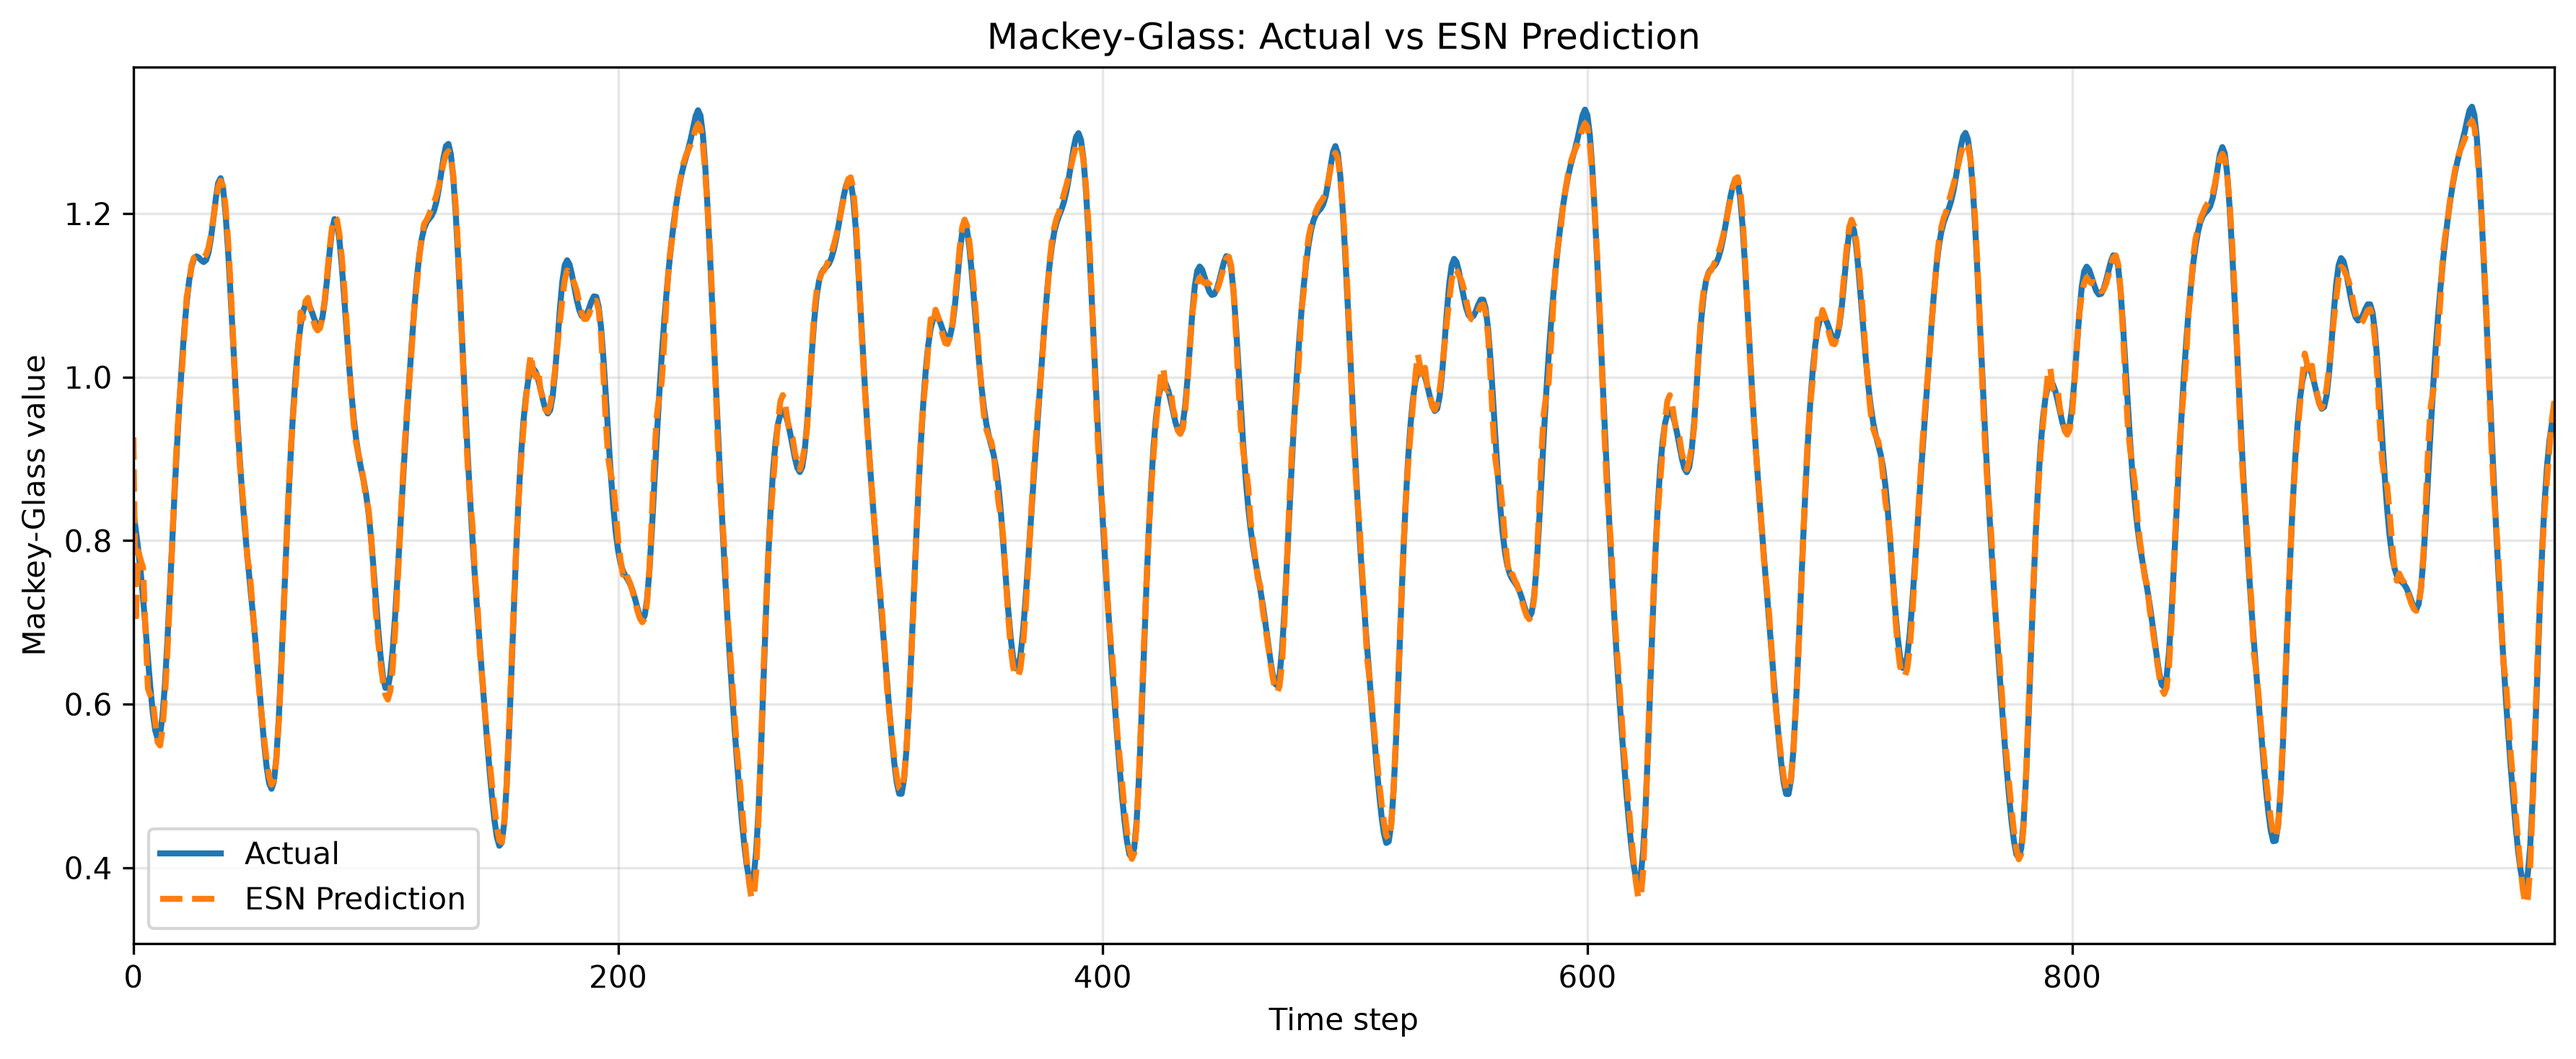
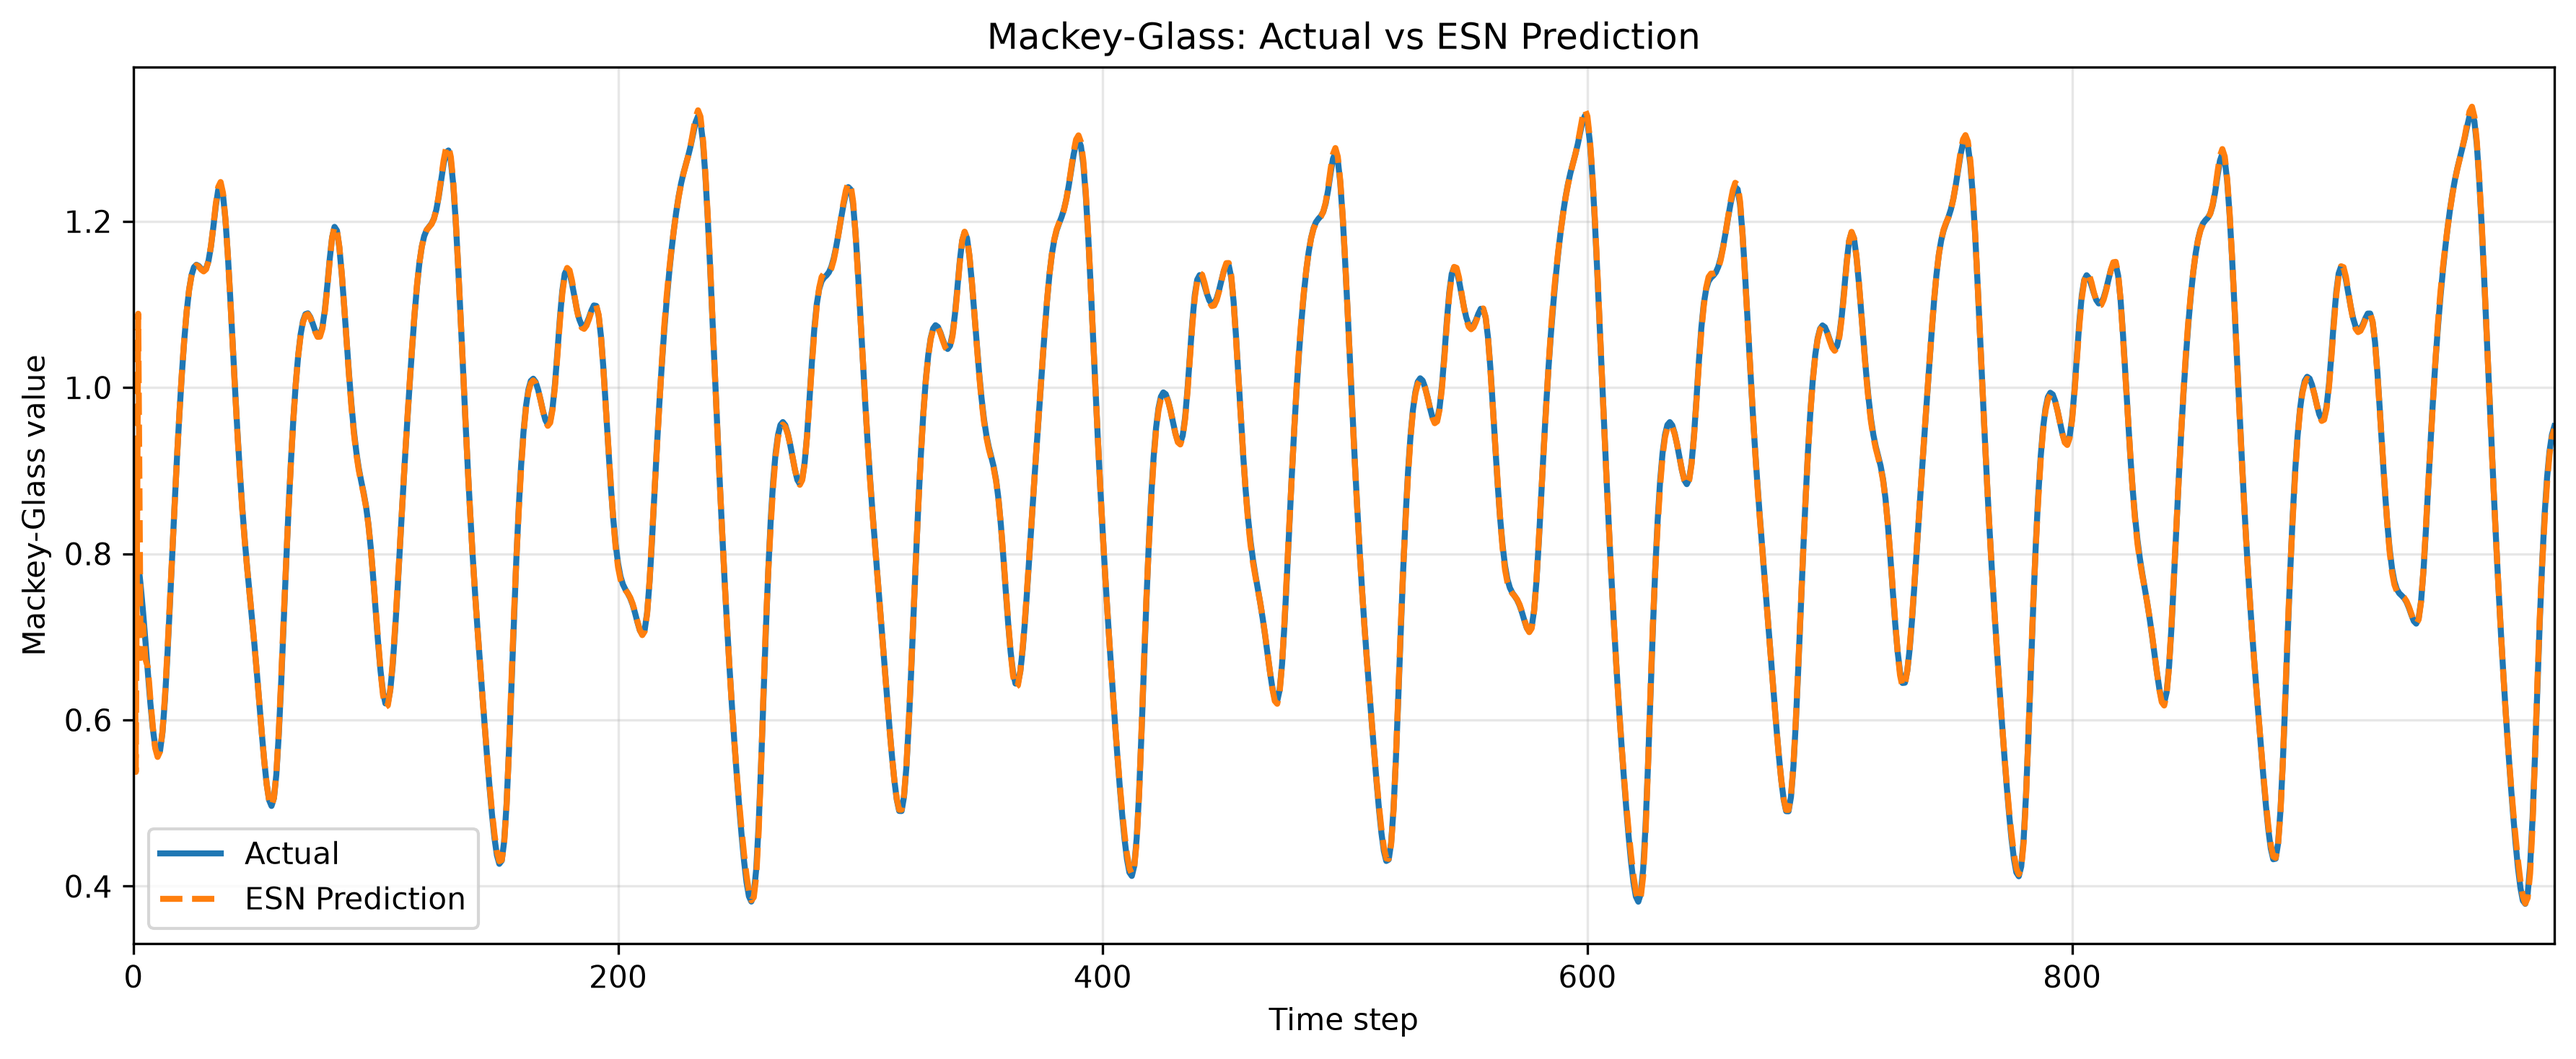
Weights saving working for esn in main

diff --git a/main/source_code/esn_model.py b/main/source_code/esn_model.py
@@ -142,8 +142,6 @@ class EchoStateNetwork(nn.Module):
             )
         )
 
-        self.fitted = False
-
     def run_reservoir(self, input_data):
         """
         Run the input sequence through the reservoir.
@@ -207,8 +205,6 @@ class EchoStateNetwork(nn.Module):
             X.T @ Y
         )
 
-        self.fitted = True
-
     def forward(self, input_data):
         """
         Generate predictions for an input sequence.
@@ -223,10 +219,6 @@ class EchoStateNetwork(nn.Module):
         predictions : np.ndarray
             Predicted values with shape (T, 1).
         """
-
-        if not self.fitted:
-            raise RuntimeError("The ESN must be fitted before prediction.")
-
         reservoir_states = self.run_reservoir(input_data)
 
         predictions = reservoir_states @ self.W_out
@@ -287,9 +279,10 @@ def run_esn(train_norm, val_norm, test_norm, config, device, weights_path, load_
     X_val = X_val.to(device)
     X_test = X_test.to(device)
 
-    if load_pretrained == True:
+    if load_pretrained:
         #load presaved weights from our best run:
         model.load_state_dict(torch.load(weights_path))
+        training_time = None
     else:
         # Training model
         if device.type == "cuda":

diff --git a/main.py b/main.py
@@ -36,6 +36,7 @@ esn_config = config["esn"]
 input_series = pd.read_csv(DATA_PATH)['value']
 
 LOAD_PRETRAINED_LSTM = True
+LOAD_PRETRAINED_ENS = True
 
 # ======================================
 # SET SEED FOR REPRODUCIBILITY
@@ -78,7 +79,7 @@ test_mse_lstm  = utils.mse(y_test_actual_lstm, y_test_pred_lstm)
 # ESN
 # ======================================
 # Run ESN
-esn_results = esn_model.run_esn(train_norm, val_norm, test_norm, esn_config, device, WEIGHTS_PATH_ENS)
+esn_results = esn_model.run_esn(train_norm, val_norm, test_norm, esn_config, device, WEIGHTS_PATH_ENS, LOAD_PRETRAINED_ENS)
 
 # Return predictions and targets to the original scale
 y_train_pred_esn = utils.inverse_zscore(esn_results['train_pred'], train_mean, train_std)
